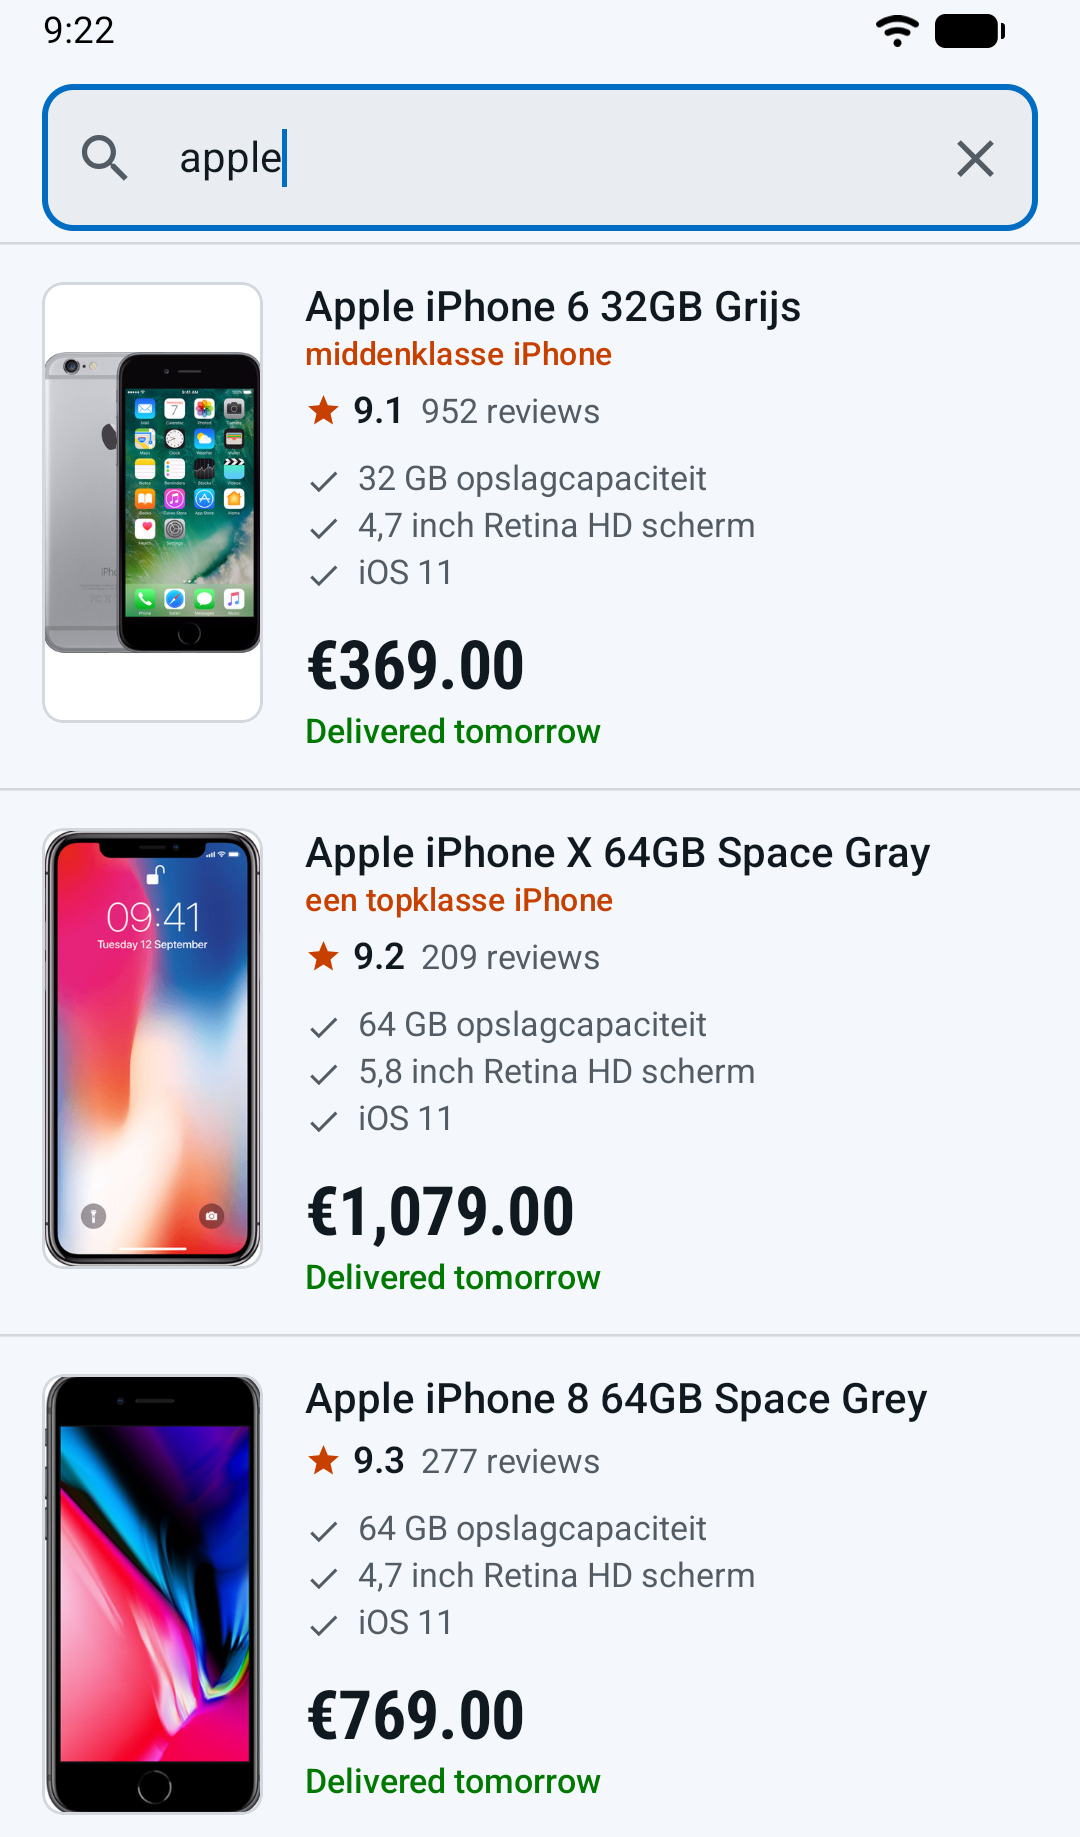
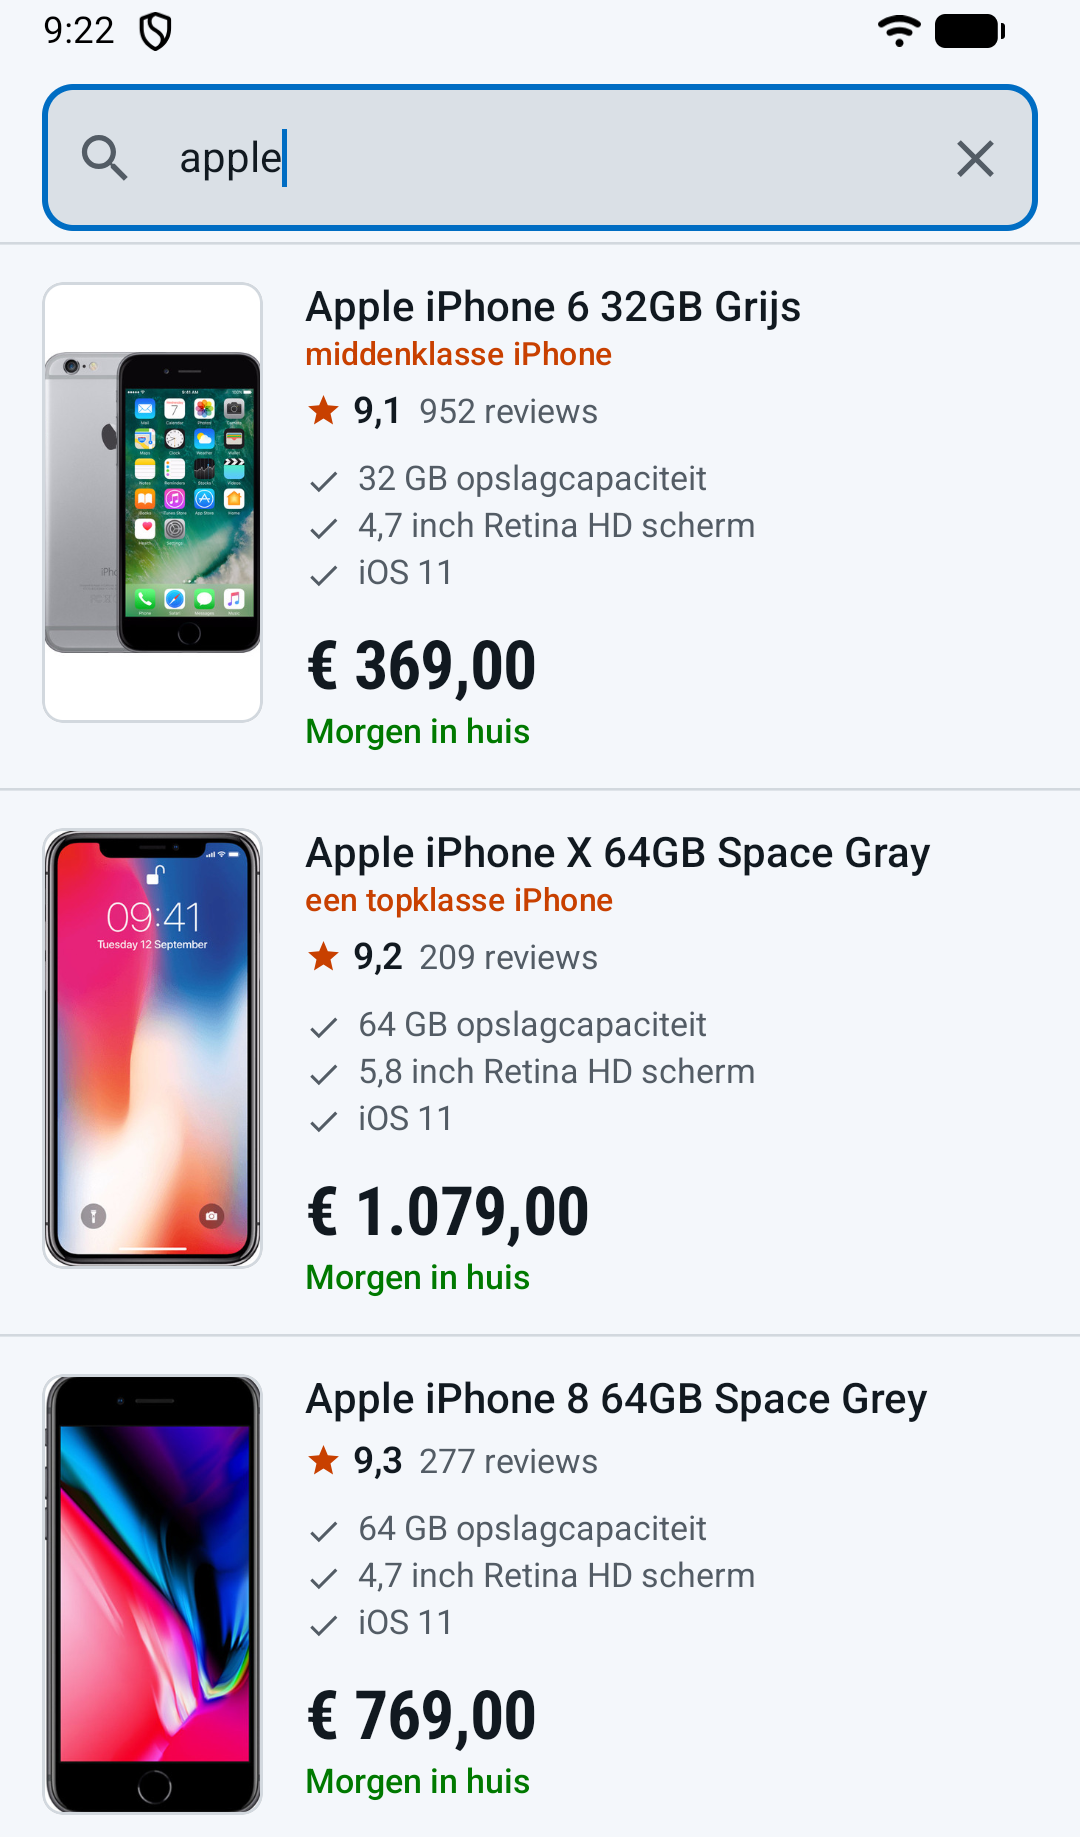
Make the app Dutch only
The API sends product names, USPs and promo labels in Dutch only, so the
app's own words now match on every phone. Dutch strings are the default
resources and English ones are gone. MainActivity overrides only the
language, so plural forms and Material's own labels follow Dutch too.
Prices, ratings and counts are formatted with one Dutch locale, which
replaces the phone-language matching in AppLocale.kt. The README
screenshot is retaken in Dutch.

diff --git a/search/ui/src/main/kotlin/com/coolblue/assignment/search/ui/view/ProductRow.kt b/search/ui/src/main/kotlin/com/coolblue/assignment/search/ui/view/ProductRow.kt
@@ -38,6 +38,7 @@ import androidx.compose.ui.graphics.graphicsLayer
 import androidx.compose.ui.layout.ContentScale
 import androidx.compose.ui.platform.LocalContext
 import androidx.compose.ui.platform.LocalWindowInfo
+import androidx.compose.ui.res.pluralStringResource
 import androidx.compose.ui.res.stringResource
 import androidx.compose.ui.semantics.clearAndSetSemantics
 import androidx.compose.ui.semantics.text
@@ -52,12 +53,13 @@ import androidx.compose.ui.unit.dp
 import coil3.compose.AsyncImage
 import coil3.request.ImageRequest
 import coil3.request.crossfade
+import com.coolblue.assignment.core.ui.Dutch
 import com.coolblue.assignment.core.ui.theme.CoolblueColors
 import com.coolblue.assignment.search.ui.R
+import com.coolblue.assignment.search.ui.mapper.formatCount
 import com.coolblue.assignment.search.ui.mapper.formatPrice
 import com.coolblue.assignment.search.ui.mapper.formatRating
 import com.coolblue.assignment.search.ui.model.ProductUiModel
-import java.util.Locale
 
 private val TileWidth = 84.dp
 private val TileHeight = TileWidth * 2
@@ -160,12 +162,11 @@ private fun PromoKicker(text: String, modifier: Modifier = Modifier) {
 @Composable
 private fun Rating(average: Double, reviewCount: Int, modifier: Modifier = Modifier) {
     if (reviewCount == 0) return
-    val locale = appLocale()
-    val rating = formatRating(average, locale)
-    val reviews = appPluralString(R.plurals.review_count, reviewCount)
+    val rating = formatRating(average)
+    val reviews = pluralStringResource(R.plurals.review_count, reviewCount, formatCount(reviewCount))
     val spokenRating = stringResource(R.string.rating_a11y, rating, reviews)
     Row(
-        modifier = modifier.clearAndSetSemantics { text = spokenRating.spokenIn(locale) },
+        modifier = modifier.clearAndSetSemantics { text = spokenRating.spokenInDutch() },
         verticalAlignment = Alignment.CenterVertically,
         horizontalArrangement = Arrangement.spacedBy(4.dp),
     ) {
@@ -206,15 +207,14 @@ private fun Usp(text: String, singleLine: Boolean) {
 
 @Composable
 private fun Price(priceCents: Int, listPriceCents: Int?, modifier: Modifier = Modifier) {
-    val locale = appLocale()
     FlowRow(modifier = modifier, horizontalArrangement = Arrangement.spacedBy(8.dp)) {
         Text(
-            text = formatPrice(priceCents, locale).spokenIn(locale),
+            text = formatPrice(priceCents).spokenInDutch(),
             style = MaterialTheme.typography.headlineSmall,
             modifier = Modifier.alignByBaseline(),
         )
         if (listPriceCents != null) {
-            val listPrice = formatPrice(listPriceCents, locale)
+            val listPrice = formatPrice(listPriceCents)
             val spokenListPrice = stringResource(R.string.list_price_a11y, listPrice)
             Text(
                 text = listPrice,
@@ -223,13 +223,14 @@ private fun Price(priceCents: Int, listPriceCents: Int?, modifier: Modifier = Mo
                 textDecoration = TextDecoration.LineThrough,
                 modifier = Modifier
                     .alignByBaseline()
-                    .clearAndSetSemantics { text = spokenListPrice.spokenIn(locale) },
+                    .clearAndSetSemantics { text = spokenListPrice.spokenInDutch() },
             )
         }
     }
 }
 
-private fun String.spokenIn(locale: Locale) = AnnotatedString(this, SpanStyle(localeList = LocaleList(locale.toLanguageTag())))
+// TalkBack reads in the phone's language unless told otherwise, and a non-Dutch voice can read "1.079,00" as one point zero seven nine.
+private fun String.spokenInDutch() = AnnotatedString(this, SpanStyle(localeList = LocaleList(Dutch.toLanguageTag())))
 
 @Composable
 private fun Delivery(modifier: Modifier = Modifier) {

diff --git a/search/ui/src/test/kotlin/com/coolblue/assignment/search/ui/mapper/ProductUiMapperTest.kt b/search/ui/src/test/kotlin/com/coolblue/assignment/search/ui/mapper/ProductUiMapperTest.kt
@@ -3,7 +3,6 @@ package com.coolblue.assignment.search.ui.mapper
 import com.coolblue.assignment.search.domain.model.Product
 import com.google.common.truth.Truth.assertThat
 import org.junit.Test
-import java.util.Locale
 
 class ProductUiMapperTest {
 
@@ -20,9 +19,6 @@ class ProductUiMapperTest {
         nextDayDelivery = true,
     )
 
-    private val dutch = Locale.forLanguageTag("nl")
-    private val english = Locale.forLanguageTag("en")
-
     @Test
     fun `given a higher list price, when mapped, then it is kept`() {
         assertThat(product.copy(listPriceCents = 36900).toUiModel().listPriceCents).isEqualTo(36900)
@@ -34,27 +30,23 @@ class ProductUiMapperTest {
     }
 
     @Test
-    fun `given 2699 cents, then the price reads as euros in Dutch and in English`() {
-        assertThat(formatPrice(2699, dutch).normalised()).isEqualTo("€ 26,99")
-        assertThat(formatPrice(2699, english)).isEqualTo("€26.99")
+    fun `given 2699 cents, then the price reads as euros with a decimal comma`() {
+        assertThat(formatPrice(2699).normalised()).isEqualTo("€ 26,99")
     }
 
     @Test
-    fun `given a price over a thousand euros, then the separators follow the language`() {
-        assertThat(formatPrice(107900, dutch).normalised()).isEqualTo("€ 1.079,00")
-        assertThat(formatPrice(107900, english)).isEqualTo("€1,079.00")
+    fun `given a price over a thousand euros, then thousands are grouped with a dot`() {
+        assertThat(formatPrice(107900).normalised()).isEqualTo("€ 1.079,00")
     }
 
     @Test
-    fun `given 2246 reviews, then the count is grouped like the language groups it`() {
-        assertThat(formatCount(2246, dutch)).isEqualTo("2.246")
-        assertThat(formatCount(2246, english)).isEqualTo("2,246")
+    fun `given 2246 reviews, then the count is grouped with a dot`() {
+        assertThat(formatCount(2246)).isEqualTo("2.246")
     }
 
     @Test
-    fun `given a 9_1 average, then the rating uses the language's decimal mark`() {
-        assertThat(formatRating(9.1, dutch)).isEqualTo("9,1")
-        assertThat(formatRating(9.1, english)).isEqualTo("9.1")
+    fun `given a 9_1 average, then the rating uses a decimal comma`() {
+        assertThat(formatRating(9.1)).isEqualTo("9,1")
     }
 
     // ICU puts a non-breaking space after the euro sign; the assertions read better with a plain one.

diff --git a/search/ui/src/main/kotlin/com/coolblue/assignment/search/ui/mapper/ProductUiMapper.kt b/search/ui/src/main/kotlin/com/coolblue/assignment/search/ui/mapper/ProductUiMapper.kt
@@ -1,11 +1,11 @@
 package com.coolblue.assignment.search.ui.mapper
 
+import com.coolblue.assignment.core.ui.Dutch
 import com.coolblue.assignment.search.domain.model.Product
 import com.coolblue.assignment.search.ui.model.ProductUiModel
 import java.math.RoundingMode
 import java.text.NumberFormat
 import java.util.Currency
-import java.util.Locale
 
 private val Euro: Currency = Currency.getInstance("EUR")
 
@@ -23,16 +23,16 @@ internal fun Product.toUiModel(): ProductUiModel = ProductUiModel(
     nextDayDelivery = nextDayDelivery,
 )
 
-/** 107900 → "€ 1.079,00" in Dutch, "€1,079.00" in English. */
-internal fun formatPrice(cents: Int, locale: Locale): String =
-    NumberFormat.getCurrencyInstance(locale).apply { currency = Euro }.format(cents / 100.0)
+/** 107900 → "€ 1.079,00". */
+internal fun formatPrice(cents: Int): String =
+    NumberFormat.getCurrencyInstance(Dutch).apply { currency = Euro }.format(cents / 100.0)
 
-/** 2246 → "2.246" in Dutch, "2,246" in English. */
-internal fun formatCount(count: Int, locale: Locale): String = NumberFormat.getIntegerInstance(locale).format(count)
+/** 2246 → "2.246". */
+internal fun formatCount(count: Int): String = NumberFormat.getIntegerInstance(Dutch).format(count)
 
-/** 9.1 → "9,1" in Dutch, "9.1" in English. */
-internal fun formatRating(average: Double, locale: Locale): String =
-    NumberFormat.getNumberInstance(locale).apply {
+/** 9.1 → "9,1". */
+internal fun formatRating(average: Double): String =
+    NumberFormat.getNumberInstance(Dutch).apply {
         minimumFractionDigits = 1
         maximumFractionDigits = 1
         roundingMode = RoundingMode.HALF_UP

diff --git a/search/ui/src/main/kotlin/com/coolblue/assignment/search/ui/view/ProductList.kt b/search/ui/src/main/kotlin/com/coolblue/assignment/search/ui/view/ProductList.kt
@@ -34,12 +34,14 @@ import androidx.compose.ui.input.nestedscroll.nestedScroll
 import androidx.compose.ui.input.InputMode
 import androidx.compose.ui.platform.LocalFocusManager
 import androidx.compose.ui.platform.LocalInputModeManager
+import androidx.compose.ui.res.pluralStringResource
 import androidx.compose.ui.res.stringResource
 import androidx.compose.ui.semantics.CustomAccessibilityAction
 import androidx.compose.ui.semantics.customActions
 import androidx.compose.ui.semantics.semantics
 import androidx.compose.ui.unit.dp
 import com.coolblue.assignment.search.ui.R
+import com.coolblue.assignment.search.ui.mapper.formatCount
 import com.coolblue.assignment.search.ui.mapper.messageRes
 import com.coolblue.assignment.search.ui.presentation.Paging
 import com.coolblue.assignment.search.ui.presentation.SearchContent
@@ -172,7 +174,7 @@ private fun LazyGridScope.nextPageFooter(paging: Paging, productCount: Int, onRe
         }
         Paging.End -> fullWidthItem(key = "end") {
             Text(
-                text = appPluralString(R.plurals.list_end, productCount),
+                text = pluralStringResource(R.plurals.list_end, productCount, formatCount(productCount)),
                 style = MaterialTheme.typography.bodySmall,
                 color = MaterialTheme.colorScheme.onSurfaceVariant,
                 modifier = Modifier.padding(horizontal = 16.dp, vertical = 20.dp),

diff --git a/app/src/main/kotlin/com/coolblue/assignment/MainActivity.kt b/app/src/main/kotlin/com/coolblue/assignment/MainActivity.kt
@@ -1,15 +1,24 @@
 package com.coolblue.assignment
 
+import android.content.Context
+import android.content.res.Configuration
 import android.os.Bundle
 import androidx.activity.ComponentActivity
 import androidx.activity.compose.setContent
 import androidx.activity.enableEdgeToEdge
+import com.coolblue.assignment.core.ui.Dutch
 import com.coolblue.assignment.core.ui.theme.CoolblueTheme
 import com.coolblue.assignment.search.ui.SearchRoute
 import dagger.hilt.android.AndroidEntryPoint
 
 @AndroidEntryPoint
 class MainActivity : ComponentActivity() {
+    // Only the language is overridden; plural forms and the libraries' strings then follow Dutch too.
+    override fun attachBaseContext(newBase: Context) {
+        super.attachBaseContext(newBase)
+        applyOverrideConfiguration(Configuration().apply { setLocale(Dutch) })
+    }
+
     override fun onCreate(savedInstanceState: Bundle?) {
         super.onCreate(savedInstanceState)
         enableEdgeToEdge()

diff --git a/search/ui/src/main/kotlin/com/coolblue/assignment/search/ui/view/SearchPreviews.kt b/search/ui/src/main/kotlin/com/coolblue/assignment/search/ui/view/SearchPreviews.kt
@@ -2,7 +2,6 @@ package com.coolblue.assignment.search.ui.view
 
 import androidx.compose.material3.Surface
 import androidx.compose.runtime.Composable
-import androidx.compose.ui.tooling.preview.Preview
 import androidx.compose.ui.tooling.preview.PreviewLightDark
 import com.coolblue.assignment.core.domain.result.AppError
 import com.coolblue.assignment.core.ui.theme.CoolblueTheme
@@ -109,10 +108,4 @@ private fun SearchScreenLoadMoreErrorPreview() {
     CoolblueTheme {
         SearchScreen(SearchUiState("iphone", loaded.copy(paging = Paging.Failed(2, AppError.Server(500)))), onAction = {})
     }
-}
-
-@Preview(locale = "nl")
-@Composable
-private fun SearchScreenDutchPreview() {
-    CoolblueTheme { SearchScreen(SearchUiState("iphone", loaded), onAction = {}) }
 }

diff --git a/search/ui/src/main/kotlin/com/coolblue/assignment/search/ui/model/ProductUiModel.kt b/search/ui/src/main/kotlin/com/coolblue/assignment/search/ui/model/ProductUiModel.kt
@@ -2,7 +2,7 @@ package com.coolblue.assignment.search.ui.model
 
 import androidx.compose.runtime.Immutable
 
-/** A product ready to draw. Prices and rating stay numbers, formatted in the app's language when drawn. */
+/** A product ready to draw. Prices and rating stay numbers, formatted in Dutch when drawn. */
 @Immutable
 internal data class ProductUiModel(
     val id: Int,

diff --git a/core/ui/src/main/kotlin/com/coolblue/assignment/core/ui/Dutch.kt b/core/ui/src/main/kotlin/com/coolblue/assignment/core/ui/Dutch.kt
@@ -1,0 +1,6 @@
+package com.coolblue.assignment.core.ui
+
+import java.util.Locale
+
+/** The app's only language: its words, prices, counts and plural forms are Dutch whatever the phone's language. */
+val Dutch: Locale = Locale.forLanguageTag("nl-NL")

diff --git a/README.md b/README.md
@@ -36,7 +36,7 @@ to the assignment's mock API; its URL is a constant in `core/network`.
 - The search field slides away as the list scrolls down and comes back on scroll up.
 - Tapping a row opens the full product in a bottom sheet.
 - Every error offers Try again; a failed later page or refresh keeps the rows on screen.
-- Dutch or English, prices formatted to match. The query survives rotation and process death.
+- Dutch on every phone, prices and counts written the Dutch way. The query survives rotation and process death.
 
 ## Architecture
 
@@ -49,11 +49,11 @@ Multi-module Clean Architecture with MVVM and unidirectional data flow. One feat
 split into three layers, plus a few shared modules.
 
 ```
-app             Application (also Coil's image loader), MainActivity, the theme wrapped around the one screen
+app             Application (also Coil's image loader), MainActivity in Dutch, the theme wrapped around the one screen
 build-logic     Gradle convention plugins, so each module's build file is about ten lines
 core/domain     AppResult and AppError, the result contract every repository returns
 core/network    OkHttp, kotlinx-serialization and Retrofit, provided through Hilt
-core/ui         Material 3 theme in Coolblue colours
+core/ui         Material 3 theme in Coolblue colours, the Dutch locale
 core/test       MainDispatcherRule, shared by ViewModel tests
 search/domain   Product, ProductPage, SearchRepository, SearchProductsUseCase
 search/data     Retrofit API, DTOs, DTO-to-domain mapper, SearchRepositoryImpl, Hilt bindings
@@ -140,12 +140,10 @@ a newer state. There are no job fields to cancel by hand.
 - **Nine modules for one screen.** More than the screen needs, but a second feature is three
   more modules and no edits to `search`.
 - **Prices as integer cents.** The API's decimal euros are rounded to `Int` cents once, in the
-  mapper, so the domain never does arithmetic on floats. The UI formats them in the app's language when it draws them.
-- **Dutch and English, though the assignment doesn't ask for it.** Added because it was cheap and
-  there was time. The app follows the phone's language, and Android 13+ lets users pick one per
-  app in system settings, so there is no in-app switch. The app's own words, prices, ratings and
-  counts change with it; product names, USPs and promo labels stay Dutch, because the mock API
-  only sends them in Dutch. This assumes a working backend would send them in both languages.
+  mapper, so the domain never does arithmetic on floats. The UI formats them in Dutch when it draws them.
+- **Dutch only.** The API sends product names, USPs and promo labels in Dutch only, so the app's
+  own words, prices, ratings and counts are Dutch too, whatever the phone's language. `MainActivity`
+  overrides only the language, so plural forms and the libraries' own strings follow it.
 
 ## Tests
 
@@ -154,7 +152,7 @@ a newer state. There are no job fields to cancel by hand.
 | search/domain | `ProductPageTest` | next page from page count |
 | search/data | `ProductMapperTest` | DTO to domain, euros to cents, optional fields |
 | search/data | `SearchRepositoryImplTest` | MockWebServer: the real page 1 JSON (every mapped field), query parameters, 500, no connection, bad JSON, an unexpected exception, cancellation passing through, a product with no reviews or explicit nulls, products with no id, name, image or price skipped |
-| search/ui | `ProductUiMapperTest` | list price rule, price, rating and count formatting in Dutch and English |
+| search/ui | `ProductUiMapperTest` | list price rule, Dutch price, rating and count formatting |
 | search/ui | `SearchViewModelTest` | debounce, the opening query is not debounced, first page, empty, error and retry, load more, a row repeated within page 1 or by the next page, edit-and-undo during a load more, duplicate request guard, load-more error and retry, cancellation on query change, saved query and restore, opens on the whole catalogue, clearing brings it back, refine keeps the rows, a late result after clearing is dropped, retry while refining, edit-and-undo keeps the rows, also after the debounce, Retry shows Loading, empty keeps its query, pull to refresh replaces the rows, a failed refresh keeps them, refresh during a refine or a load more, a refresh landing after the query changed is dropped, a refresh survives an edit-and-undo, each failed refresh is a new value, a fast refresh stays visible, a refresh right after a load more, load more and a second refresh ignored during a refresh, a load-more error survives an edit-and-undo but not a refresh |
 
 Run them with `./gradlew test`. They run on every push through GitHub Actions, together with
